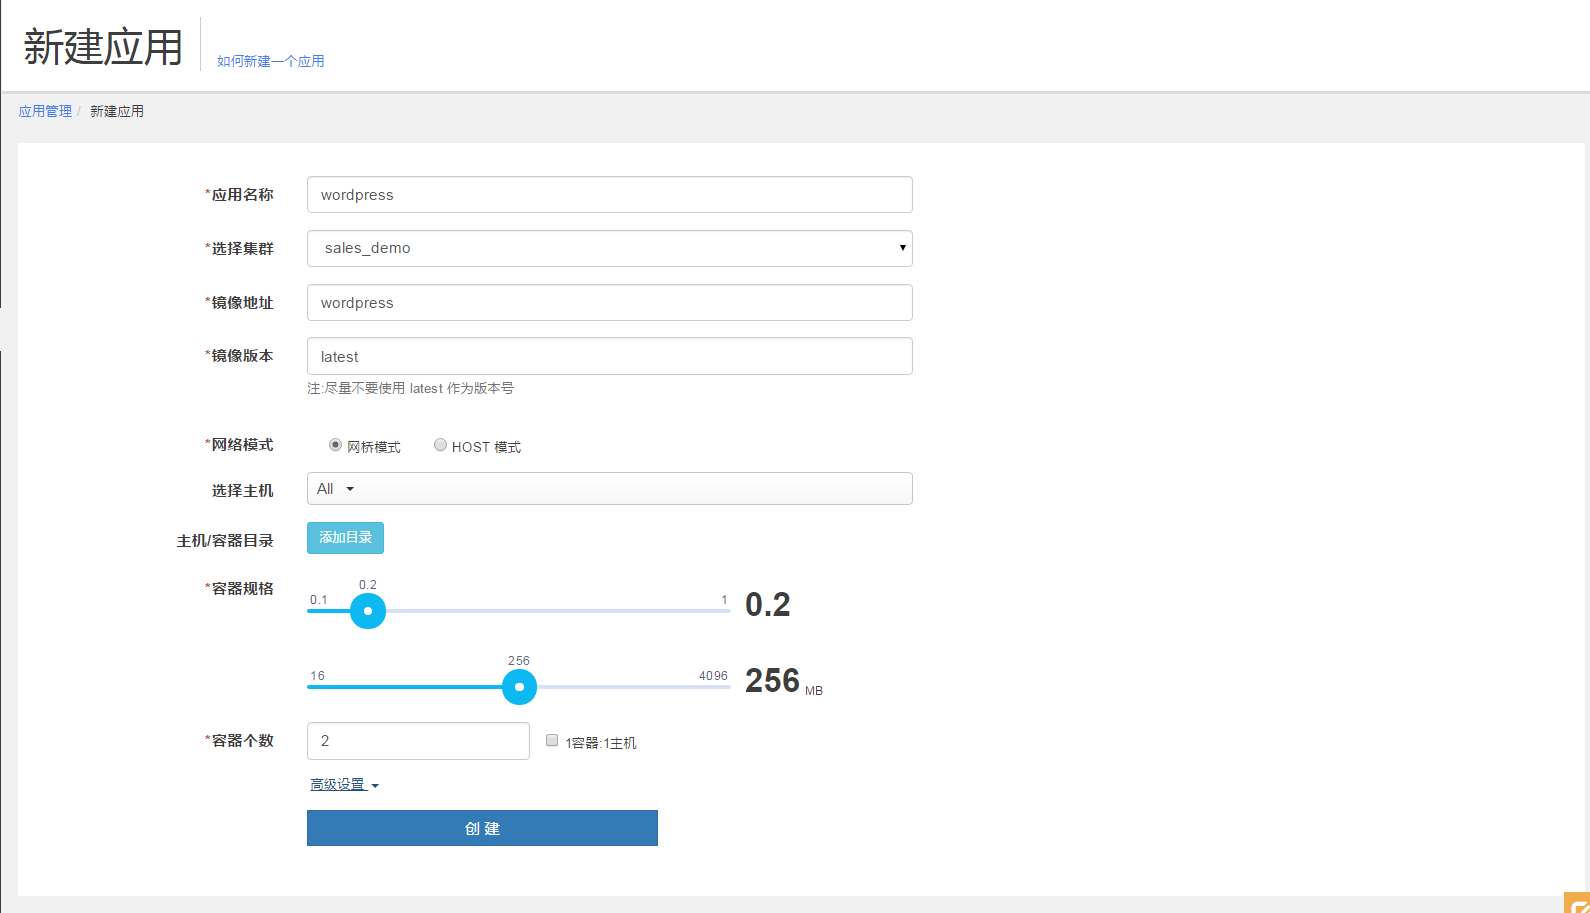
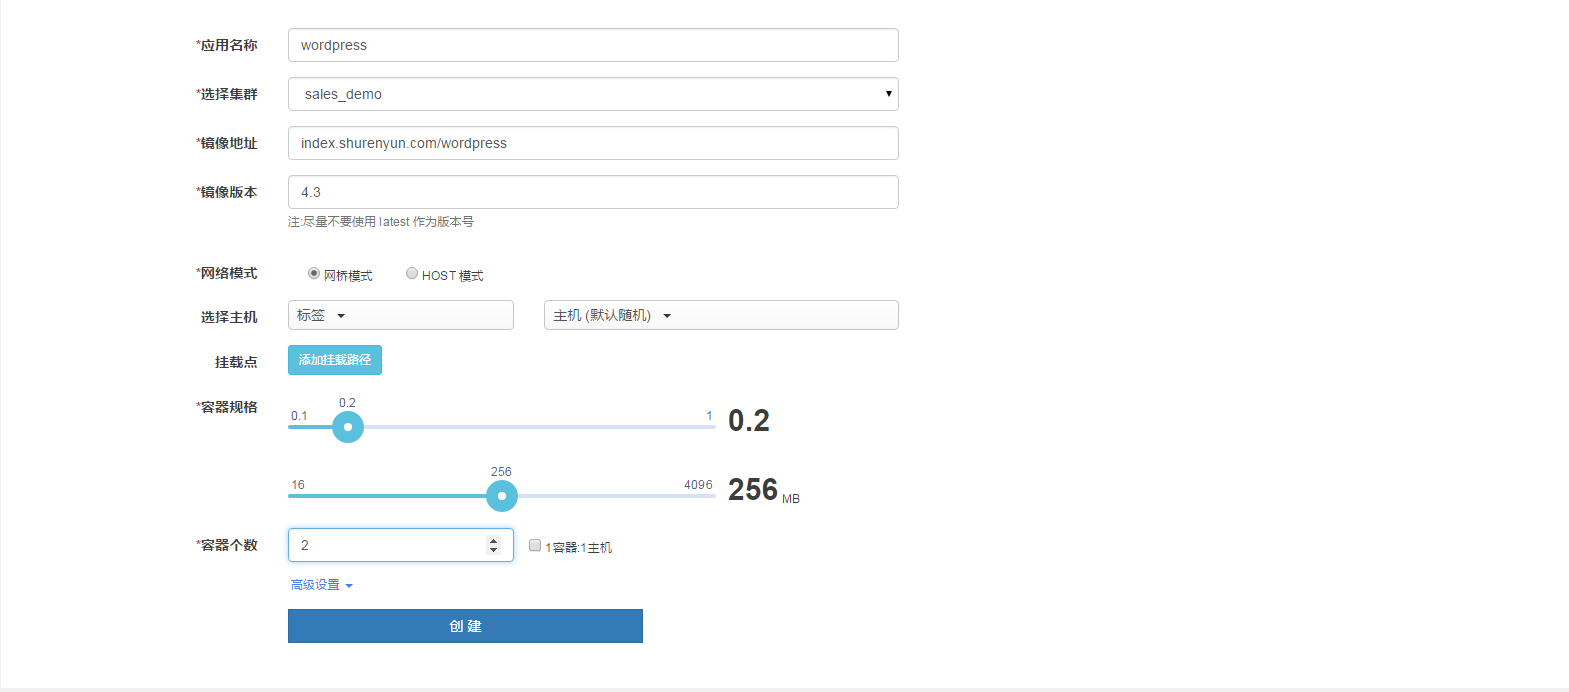
update

diff --git a/practice/jenkins.md b/practice/jenkins.md
@@ -1,0 +1,107 @@
+俗话说的好，天下武功，唯快不破。雷教主也说"专注 极致 口碑 快"是小米成功的秘诀。为什么一定要迭代快呢？ 因为太阳底下没有新鲜事，聪明人那么多，凭空想出一个绝世好点子，然后憋足劲做出一个惊天地泣鬼神的产品，除了乔帮主，还真没几个人能做到。
+
+互联网产品拼的就是迭代速度，这已是互联网行业中大家公认的秘诀。但为什么有人能做到？有人做不到呢？一个重要原因就是开发过程中的持续集成和持续交付（CI/CD）其实并没有那么容易做到，单是部署一个Jenkins持续集成环境，就是一个费时费力的事。
+
+工欲善其事 必先利其器。下面给大家介绍如何通过[数人云](https://www.shurenyun.com/)快速搭建[Jenkins持续集成环境](https://www.shurenyun.com/company-app.html)。
+
+### Jenkins
+Jenkins 是基于 Java 开发的一种持续集成 (CI) 工具，使用数人云部署 Jenkins 能够在做到快速搭建的同时，实现资源的动态调度，提高资源利用率。
+
+下面讲述一下数人云上搭建 Jenkins 的架构和工作流程：
+
+* Jenkins Master
+  
+  它负责提供整个 Jenkin 的设置、webui、工作流控制定制等。首先，将Jenkins-Master使用数人云发布，数人云会对其进行程序管理和健康检查，从而在应用程序由于某些意外崩溃后自动恢复，保证了Jenkins-Master构建系统的全局高可用，使用数人云部署Jenkins使您的Jenkins应用运行在一个资源池中，进一步实现了资源共享，提高了资源利用率。
+
+* Jenkins Slave
+
+  Jenkins利用在数人云上建立的集群资源，主要的目的是利用弹性资源分配来提高资源利用率，通过配置Jenkins-mesos-plugin插件，Jenkins Master可以在作业构建时根据实际需要动态的申请Jenkins-Slave节点，并在构建完成后的一段时间后，将节点归还。
+
+* Jenkins-mesos-plugin
+
+  Jenkins-mesos-plugin是用插件模式挂载到Jenkins Master上的。主要目的是要把Jenkins-Master当作集群的调度器使用，可以调度用数人云建立的集群资源为Jenkins服务。
+
+### 数人云注册&登录&创建集群
+
+因为数人云迭代很快，所以这里就不进行详细描述，最新数人云操作文档会在数人云用户手册中，需要参考的用户请点击：[数人云用户手册](http://doc.shurenyun.com/get-started/index.html)
+
+### 使用数人云部署 Jenkins
+
+部署 Jenkins 应用很简单，下面是具体操作步骤：
+
+选择应用管理，点击"新建应用"，按照如下提示，新建 Jenkins 应用：
+
+* 填写应用名称：jenkins
+* 选择集群：demo
+* 添加应用镜像地址：testregistry.dataman.io/centos7/mesos-0.23.0-jdk8-jenkins1.628-master
+* 填写镜像版本：app.v0.3
+* 选择应用模式：HOST模式
+* 选择应用类型：有状态应用
+* 选择主机：主机下拉列表中选择任一合适IP即可
+* 主机/容器目录配置： 数据挂载目录：/data/jenkins  容器目录：/var/lib/jenkins
+* 选择容器规格：CPU：0.2  内存：512MB
+
+![新建Jenkins应用](./jenkins/A.png)
+
+高级设置：
+
+* 点击添加环境变量，填写环境变量参数：
+
+        Key: JAVA_OPTS      Value: -Xmx512M -Xms512M
+        key: JENKINS_PORT   Value: 8002
+        
+![添加环境变量](./jenkins/B.png)
+
+填写完成之后，点击创建即可，创建完成后可看到应用部署状态等信息：
+
+![Jenkins应用部署中](./jenkins/C.png)
+
+稍等片刻可看到应用已正常运行：
+
+![Jenkins应用成功运行](./jenkins/D.png)
+
+打开浏览器，在内部代理配置好的情况下访问 Jenkins，访问地址为：yourip:JENKINS_PORT，看到如下页面，则说明 Jenkins 应用已经成功运行。
+
+![Jenkins主页](./jenkins/E.png)
+
+### Jenkins 数人云设置
+
+如果我们想要将Jenkins作为mesos的一个framework注册到mesos上，需要在成功启动 Jenkins之后对其插件进行设置。
+
+设置 Jenkins-Mesos 分三层，点击左上角"系统管理"，然后在系统管理页面点击"系统设置"。
+
+1. Jenkins 调用 Mesos 集群设置
+
+* Mesos native library path 设置 Mesos lib 库路径，一般在/usr/lib/libmesos.so，拷贝无效，必须安装 Mesos。
+* Mesos Master [hostname:port] 设置 Mesos-Master 地址加端口，如果单 Mesos-Master 模式，使用 mesos-master-ip:5050格式，如果是多 Mesos-Master 使用 zk://zk1:2181,zk2:2181,zk3:2181/mesos 格式
+* Framework Name 设置 Mesos Master 查看到的应用框架名称
+* Slave username 设置 Slave的名字
+* Checkpointing 设置检查
+* On-demand framework registration 设置是否在无任务的情况下，从 Mesos-Master 注销应用框架
+
+![Jenkins 调用 Mesos 集群设置](./jenkins/j1.png)
+
+2. Jenkins Slave 调用 Mesos-Slave 类型设置(可按资源)
+
+* Label String 设置 Slave 标签
+* Maximum number of Executors per Slave 每个 Slave 可以同时执行几个任务
+* Mesos Offer Selection Attributes 选择在那些 Mesos Slave 标签资源上运行，格式{"clusterType":"标签"}
+
+![Jenkins Slave 调用 Mesos-Slave 类型设置](./jenkins/j2.png)
+
+3. Jenkins Slave 调用 Docker 镜像设置
+
+* Docker Image 设置 Jenkins Slave 使用镜像
+* Networking - Bridge 设置网络模式，这里一定要设置网桥模式
+* Port Mapping -Container Port & Host Prot 设置容器端口关系，必须设置否则会导致 Mesos-DNS 因找不到端口映射崩溃，Host Port 默认设置为空(自动取)，否则必须设置在39000以后的Mesos Slave 选定端口内。
+* Volumes 挂载目录，必须挂载 slave.jar 和 docker in docker 
+
+![Jenkins Slave 调用 Docker 镜像设置1](./jenkins/j3.png)
+
+![Jenkins Slave 调用 Docker 镜像设置2](./jenkins/j4.png)
+
+### 后续
+
+所使用的 Dockerfile 和启动脚本全部开源，并上传到了[数人科技的GITHUB](https://github.com/Dataman-Cloud/OpenDockerFile/tree/master/jenkins)，有兴趣的同学可以帮助一起改进。
+
+至此一个基于 Jenkins 的持续集成集群环境已搭建完成，让我们一起快速迭代产品吧，给用户不断带来一个个的小惊喜。

diff --git a/practice/Jenkins/jenkins.md b/practice/Jenkins/jenkins.md
@@ -1,0 +1,103 @@
+##玩转数人云: 用数人云发布jenkins
+
+    文档信息
+    创建人 张馨文
+    邮件地址 xwzhang@dataman-inc.com
+    创建时间 2015年12月01号
+    更新时间 2015年12月03号
+
+###Jenkins on Shurenyun
+Jenkins 是基于 Java 开发的一种持续集成 (CI) 工具，使用数人云部署jenkins能够实现资源的动态调度，提高资源利用率。
+
+下面讲述一下将Jenkins on Shurenyun的架构和工作流程：
+
+* Jenkins Master
+  
+  它负责提供整个 Jenkin 的设置、webui、工作流控制定制等。首先，将Jenkins-Master使用数人云发布，数人云会对其进行程序管理和健康检查，从而在应用程序由于某些意外崩溃后自动恢复，保证了Jenkins-Master构建系统的全局高可用，使用数人云部署Jenkins使您的Jenkins应用运行在一个资源池中，进一步实现了资源共享，提高了资源利用率。
+* Jenkins Slave
+
+  Jenkins利用使用数人云建立的集群资源，主要的目的是利用弹性资源分配来提高资源利用率，通过配置Jenkins-mesos-plugin插件，Jenkins Master可以在作业构建时根据实际需要动态的申请Jenkins-Slave节点，并在构建完成后的一段时间后，将节点归还。
+* Jenkins-mesos-plugin
+
+  Jenkins-mesos-plugin是用插件模式挂载到Jenkins Master上的。主要目的是要把Jenkins-Master当作集群的调度器使用，可以调度用数人云建立的集群资源为Jenkins服务。
+
+###数人云注册&登录&创建集群
+因为数人云迭代很快，所以这里就不进行详细描述，最新数人云操作文档会在数人云用户手册中，需要参考的用户请点击：
+[GET-STARTED](http://doc.shurenyun.com/get-started/index.html)
+
+###使用数人云部署jenkins
+
+部署jenkins应用很简单，下面是具体操作步骤：
+
+选择应用管理，点击"新建应用"，按照如下提示，新建jenkins应用：
+
+* 填写应用名称：jenkins
+* 选择集群：demo
+* 添加应用镜像地址：testregistry.dataman.io/centos7/mesos-0.23.0-jdk8-jenkins1.628-master
+* 填写镜像版本：app.v0.3
+* 选择应用模式：HOST模式
+* 选择应用类型：有状态应用
+* 选择主机：主机下拉列表中选择任一合适IP即可
+* 主机/容器目录配置： 数据挂载目录：/data/jenkins  容器目录：/var/lib/jenkins
+* 选择容器规格：CPU：0.2  内存：512MB
+
+![new_app](./A.png)
+
+高级设置：
+
+* 点击添加环境变量，填写环境变量参数：
+
+        Key: JAVA_OPTS      Value: -Xmx512M -Xms512M
+        key: JENKINS_PORT   Value: 8002
+        
+![add_env](./B.png)
+
+填写完成之后，点击创建即可，创建完成后可看到应用部署状态等信息：
+
+![app_deploy](./C.png)
+
+稍等片刻可看到应用已正常运行：
+
+![app_run](./D.png)
+
+打开浏览器，在内部代理配置好的情况下访问jenkins，访问地址为：yourip:JENKINS_PORT，看到如下页面，则说明jenkins应用已经成功运行。
+
+![app_success](./E.png)
+
+###jenkins 数人云设置
+我们想要将jenkins作为mesos的一个framework注册到mesos上，需要在成功启动jenkins之后对其插件进行设置。
+
+设置 Jenkins-Mesos 分三层，点击左上角"系统管理"，然后在系统管理页面点击"系统设置"。
+
+1.Jenkins 调用 Mesos 集群设置
+
+* Mesos native library path 设置 Mesos lib 库路径，一般在/usr/lib/libmesos.so，拷贝无效，必须安装 Mesos。
+* Mesos Master [hostname:port] 设置 Mesos-Master 地址加端口，如果单 Mesos-Master 模式，使用 mesos-master-ip:5050格式，如果是多 Mesos-Master 使用 zk://zk1:2181,zk2:2181,zk3:2181/mesos 格式
+* Framework Name 设置 Mesos Master 查看到的应用框架名称
+* Slave username 设置 Slave的名字
+* Checkpointing 设置检查
+* On-demand framework registration 设置是否在无任务的情况下，从 Mesos-Master 注销应用框架
+
+![jenkins_one](./j1.png)
+
+2.Jenkins Slave 调用 Mesos-Slave 类型设置(可按资源)
+
+* Label String 设置 Slave 标签
+* Maximum number of Executors per Slave 每个 Slave 可以同时执行几个任务
+* Mesos Offer Selection Attributes 选择在那些 Mesos Slave 标签资源上运行，格式{"clusterType":"标签"}
+
+![jenkins_two](./j2.png)
+
+3.Jenkins Slave 调用 Docker 镜像设置
+
+* Docker Image 设置 Jenkins Slave 使用镜像
+* Networking - Bridge 设置网络模式，这里一定要设置网桥模式
+* Port Mapping -Container Port & Host Prot 设置容器端口关系，必须设置否则会导致 Mesos-DNS 因找不到端口映射崩溃，Host Port 默认设置为空(自动取)，否则必须设置在39000以后的Mesos Slave 选定端口内。
+* Volumes 挂载目录，必须挂载 slave.jar 和 docker in docker 
+
+![jenkins_three](./j3.png)
+![jenkins_four](./j4.png)
+
+###后续
+
+所使用的 Dockerfile 和启动脚本全部开源，并上传到了数人的[GITHUB](https://github.com/Dataman-Cloud/OpenDockerFile/tree/master/jenkins)，有兴趣的同学可以帮助一起改进。

diff --git a/practice/wordpress.md b/practice/wordpress.md
@@ -78,12 +78,12 @@ AWS、Azure、首都在线、华为云等公有云上购买的任意一台云主
 
 选择集群：your-cluster  
 
-添加应用镜像地址：mysql  
+添加应用镜像地址：index.shurenyun.com/mysql  
 
-填写镜像版本：latest   
+填写镜像版本：5.6   
 网络模式：网桥模式
 
-主机选择：192.168.1.19
+主机选择：your-node
  
 
 容器目录：容器内的挂载目录  /var/lib/mysql
@@ -113,9 +113,9 @@ AWS、Azure、首都在线、华为云等公有云上购买的任意一台云主
 
 选择集群：your-cluster  
 
-添加应用镜像地址：wordpress  
+添加应用镜像地址：index.shurenyun.com/wordpress  
 
-填写镜像版本：latest   
+填写镜像版本：4.3   
 
 网络模式：网桥模式
 

diff --git a/practice/README.md b/practice/README.md
@@ -8,3 +8,4 @@
 * [OneSQL 入驻数人云](onesql.md)
 * [永洪 BI 入驻数人云](yonghongbi.md)
 * [使用数人云部署 Cassandra 集群](cassandra.md)
+* [唯快不破：如何快速搭建Jenkins加速产品迭代](jenkins.md)
